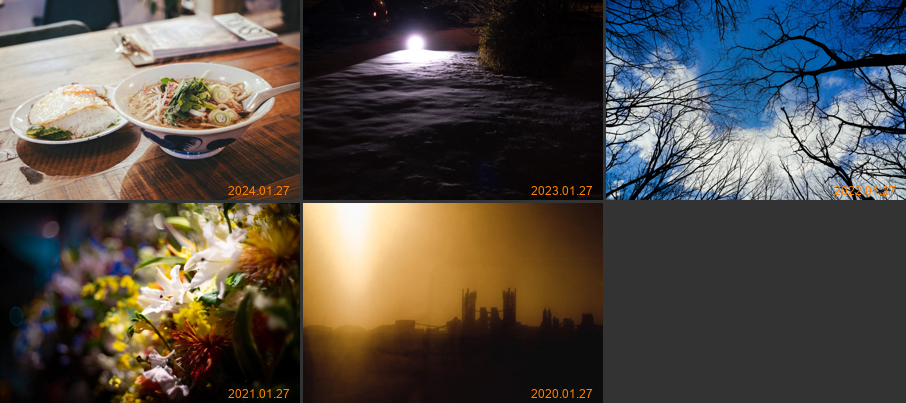
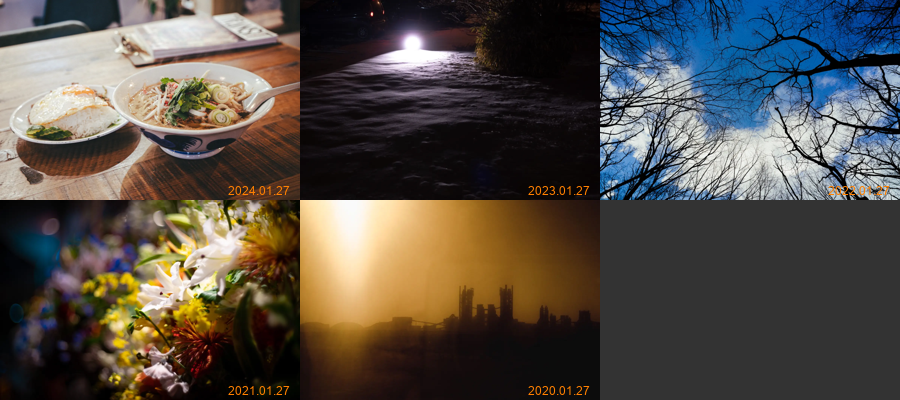
画像サービスのパディング設定を3から0に変更し、サマリー画像の生成に影響を与える可能性のある新しい画像ファイルを追加しました。

diff --git a/secon_year_summary/services/image_service.py b/secon_year_summary/services/image_service.py
@@ -212,7 +212,7 @@ async def create_summary_image(articles: list[Article], target_date: datetime, o
         rows = math.ceil(num_images / cols)
 
     # マージンとパディングの設定
-    padding = 3  # 画像間のパディング
+    padding = 0  # 画像間のパディング
     canvas_width = cols * THUMBNAIL_WIDTH + (cols - 1) * padding
     canvas_height = rows * THUMBNAIL_HEIGHT + (rows - 1) * padding
 
